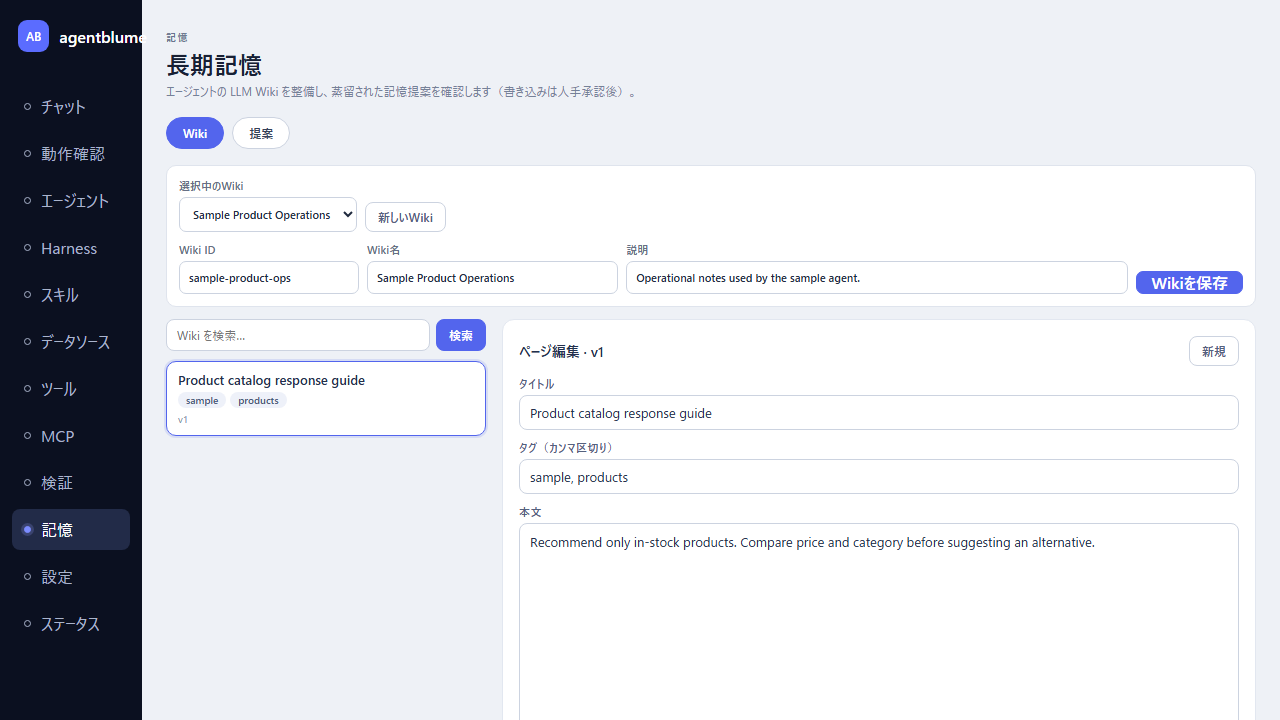
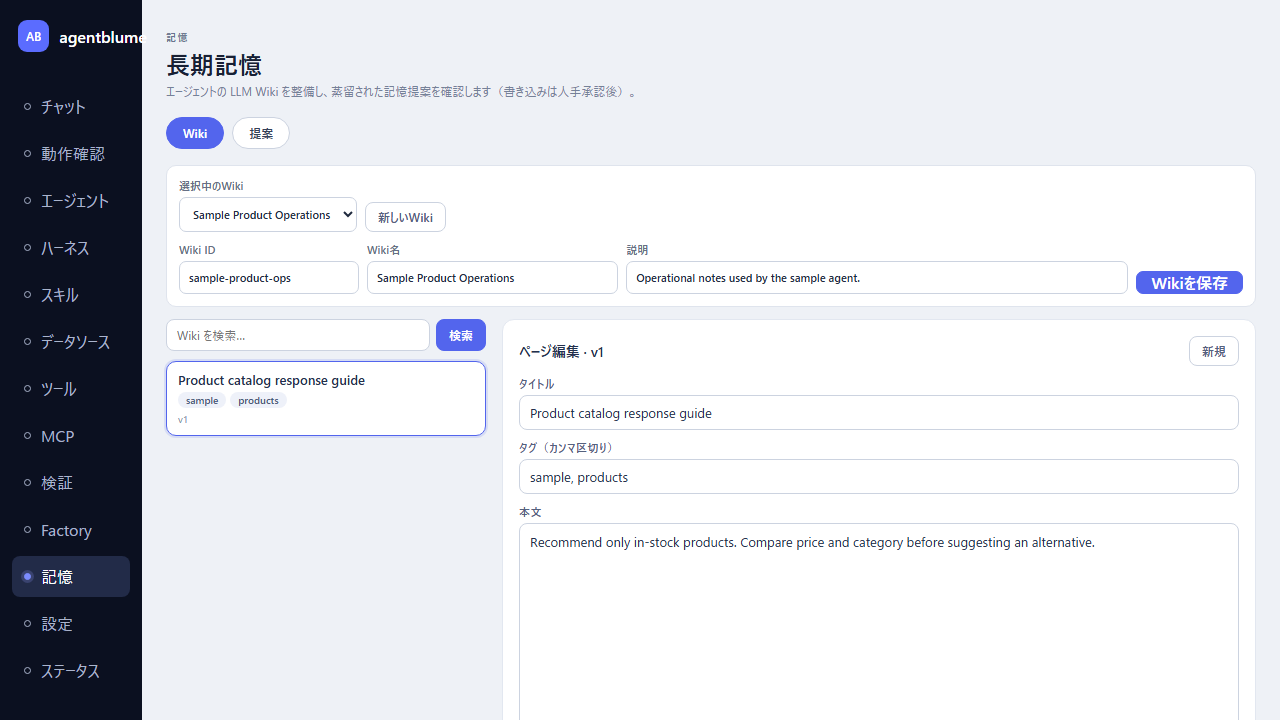
docs: add live-app screenshots to readme with harness and factory captures
readme.md冒頭へ実行中アプリ（日本語UI・サンプルデータ）のスクリーンショット
ギャラリーを追加する。チャット実応答 / Tool Builder / Harness Builder
（Concurrentのfan-out構造）/ Agent Factory / データソース / 長期記憶の6枚。

- manual-screenshots.spec.ts へハーネス（新規作成→Concurrent→Agent割当）と
  Factory（入力フォーム）の撮影を追加し、全画像を現行UIで再生成
- harness-tutorial-screenshots.spec.ts を日本語化後のUI（ハーネスnav・
  作成者/レビュアー/公開担当ラベル）へ追従

Changed region(s): [[0.0, 0.7028, 0.125, 0.8861], [0.0312, 0.9167, 0.0938, 0.9472], [0.0312, 0.3361, 0.0938, 0.3667]]

diff --git a/e2e/harness-tutorial-screenshots.spec.ts b/e2e/harness-tutorial-screenshots.spec.ts
@@ -22,15 +22,15 @@ test('Harness BuilderのAgent割当とチャット対象選択を撮影する', 
   }
 
   await page.goto('/');
-  await page.getByRole('button', { name: 'Harness', exact: true }).click();
+  await page.getByRole('button', { name: 'ハーネス', exact: true }).click();
   await expect(page.getByText('Agent Harness Builder', { exact: true })).toBeVisible();
   await page.getByRole('button', { name: '新規作成', exact: true }).click();
   await page.getByLabel('内部ID').fill('tutorial-content-review');
   await page.getByLabel('表示名').fill('商品紹介レビュー');
   await page.getByLabel('所有者').fill('tutorial@example.com');
-  await page.getByLabel('Agentを割り当て Author').selectOption('tutorial-writer');
-  await page.getByLabel('Agentを割り当て Reviewer').selectOption('tutorial-reviewer');
-  await page.getByLabel('Agentを割り当て Publisher').selectOption('tutorial-publisher');
+  await page.getByLabel('Agentを割り当て 作成者').selectOption('tutorial-writer');
+  await page.getByLabel('Agentを割り当て レビュアー').selectOption('tutorial-reviewer');
+  await page.getByLabel('Agentを割り当て 公開担当').selectOption('tutorial-publisher');
   await capture(page, '01-harness-agent-assignment.png');
 
   await page.getByRole('main').getByRole('button', { name: '検証', exact: true }).click();

diff --git a/readme.md b/readme.md
@@ -5,6 +5,16 @@
 - **スタック**: TypeScript / React 19 / Fastify / Vite / Vitest / Playwright
 - **状態**: プレビュー（ローカル実行向け）
 
+## 画面
+
+サンプルデータを投入して実行中のアプリ（日本語UI）。画像は `npm run docs:screenshots` が実画面を操作して再生成する。操作手順は[デモデータ操作マニュアル](docs/13-demo-operation-manual.md)を参照。
+
+| | |
+|---|---|
+| **チャット** — 保存済みAgentがToolを呼び出して応答（ライブモデル実行） ![チャット実行結果](docs/assets/demo-manual/07-chat-result.png) | **Tool Builder** — ETLノードフローの編集と固定サンプルプレビュー ![Tool Builder](docs/assets/demo-manual/02-tool-preview.png) |
+| **Harness Builder** — マルチエージェント構成をパターン別の構造図で編集（Concurrentのfan-out＋集約） ![Harness Builder](docs/assets/demo-manual/08-harness-builder.png) | **Agent Factory** — やりたいこと＋データソースからAgent一式を自動生成・自動改善 ![Agent Factory](docs/assets/demo-manual/09-factory.png) |
+| **データソース** — CSV/JSON登録とDB接続カタログ ![データソース](docs/assets/demo-manual/01-data-sources.png) | **長期記憶** — Wikiページの編集・検索とAgentへのアタッチ ![長期記憶](docs/assets/demo-manual/04-wiki-memory.png) |
+
 ## ローカル開発
 
 PowerShellからAPIとUIをまとめて起動する。
